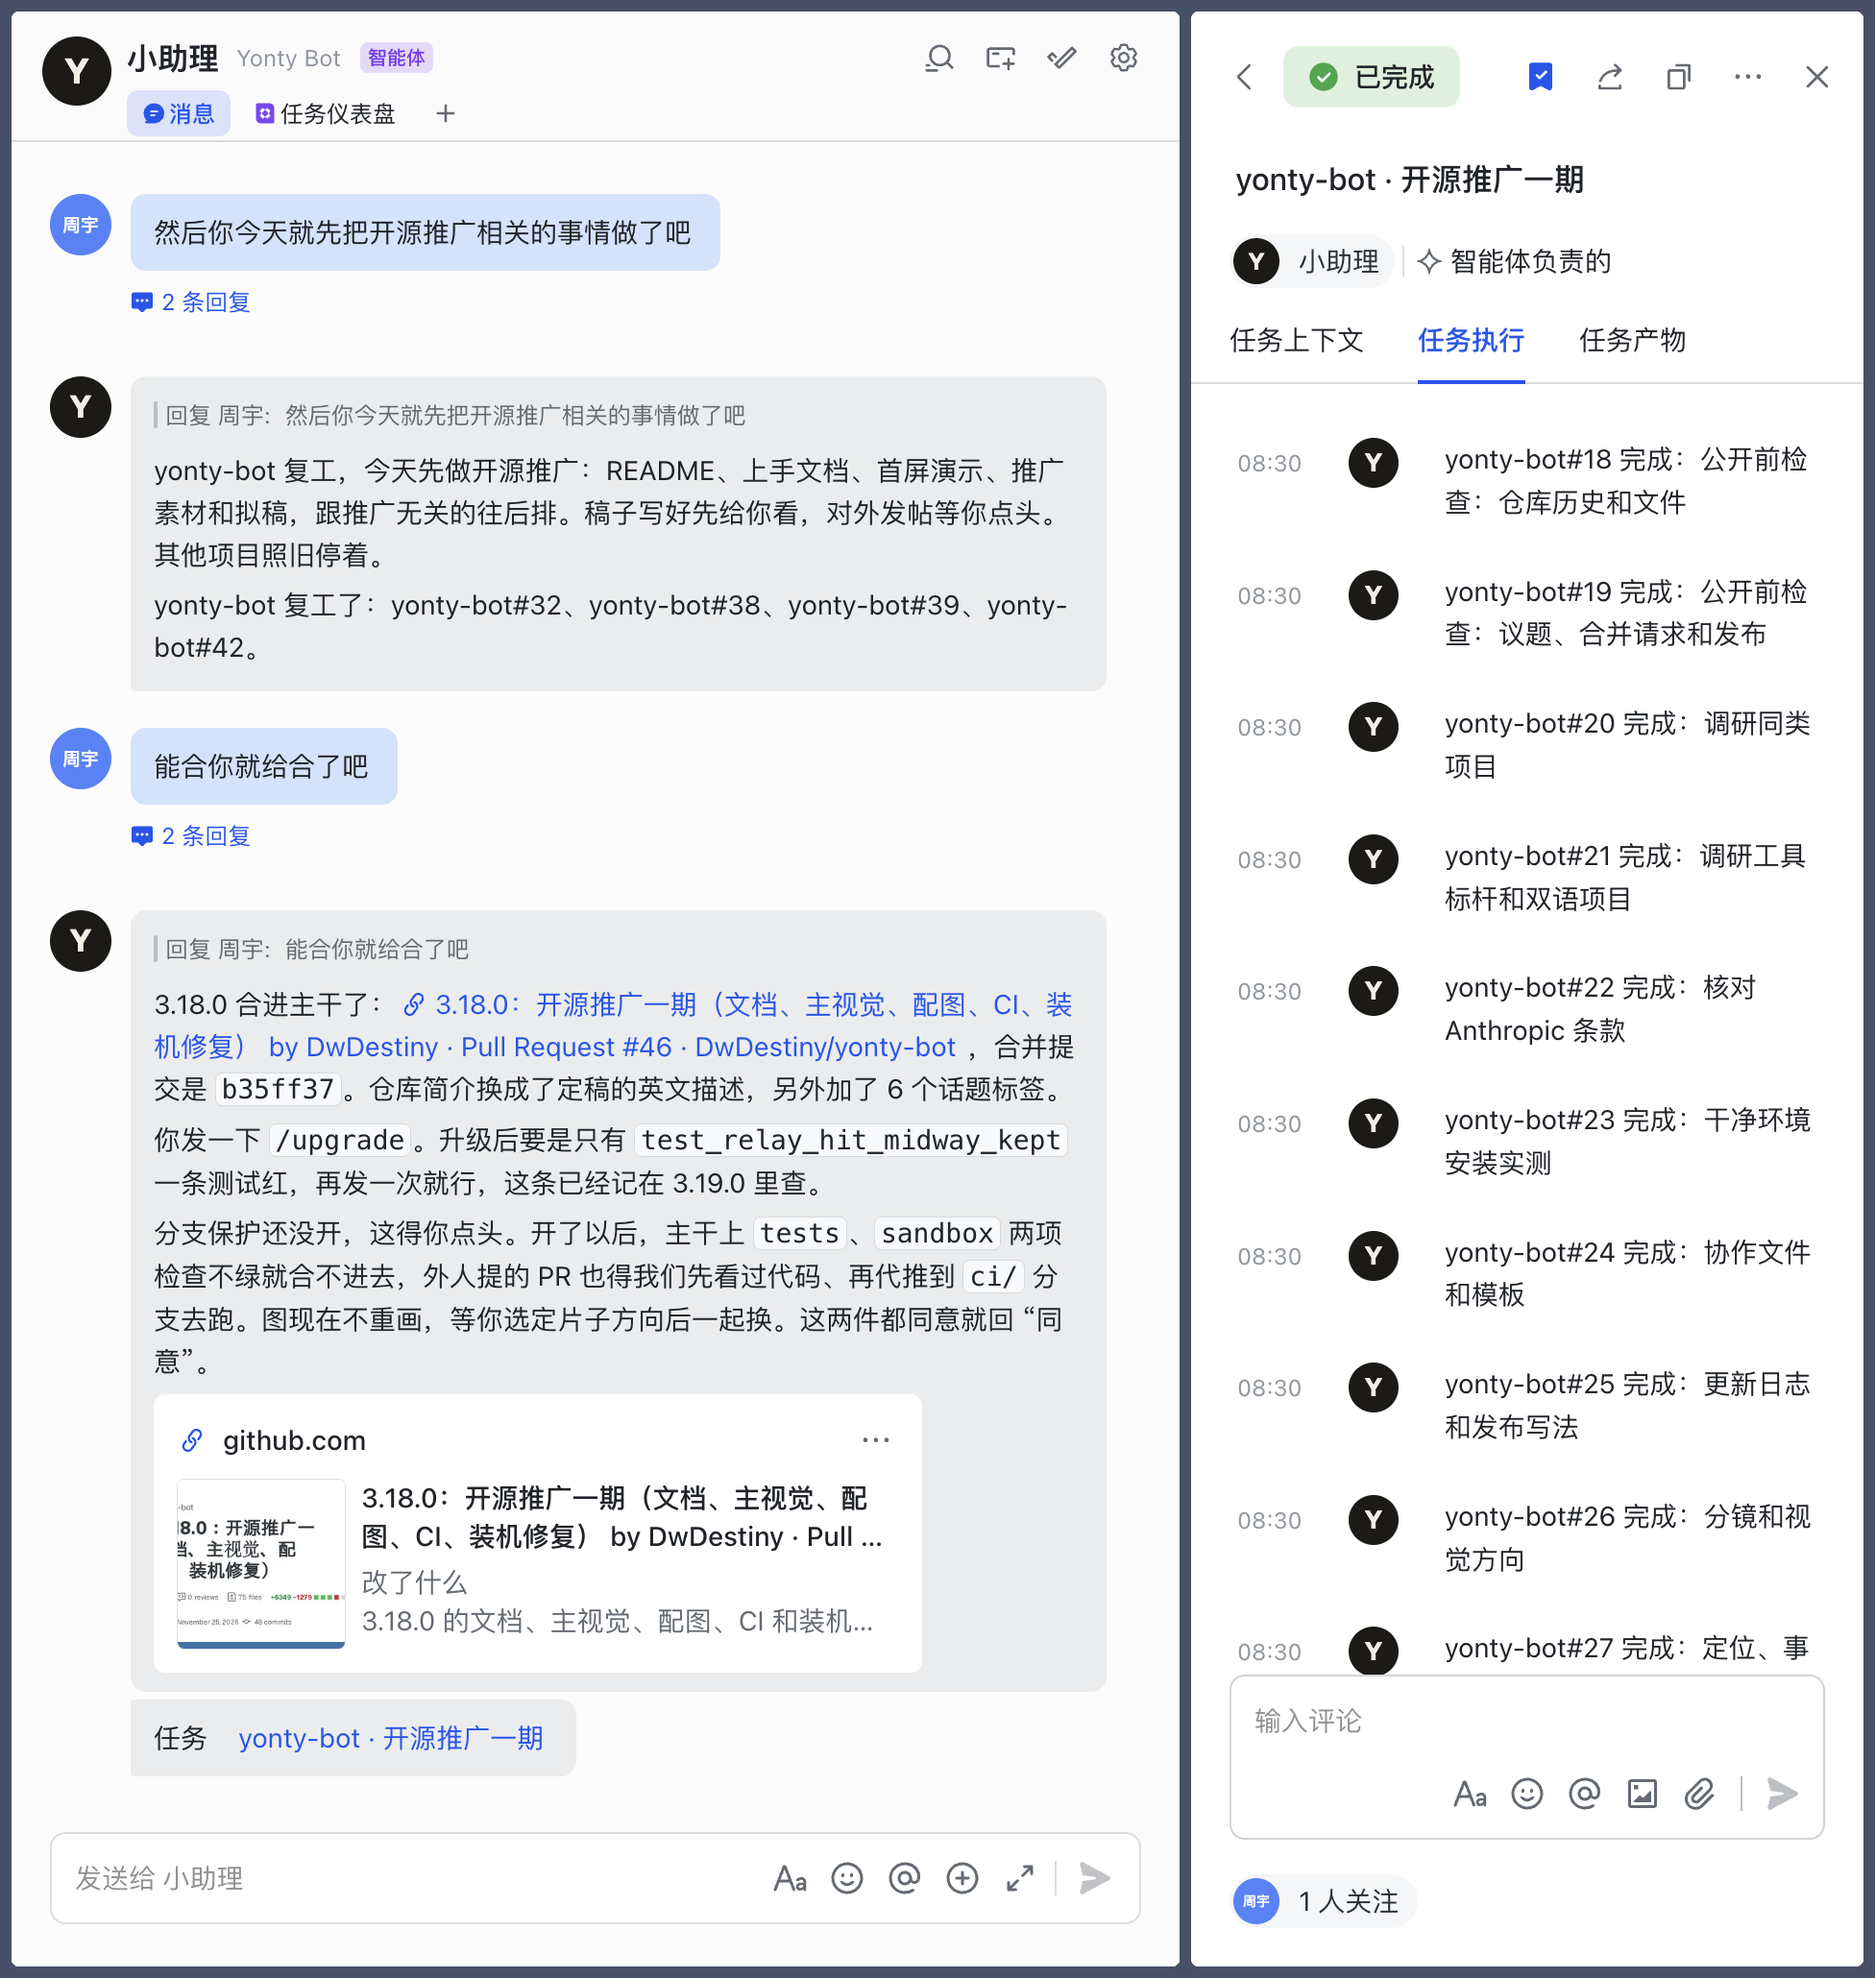
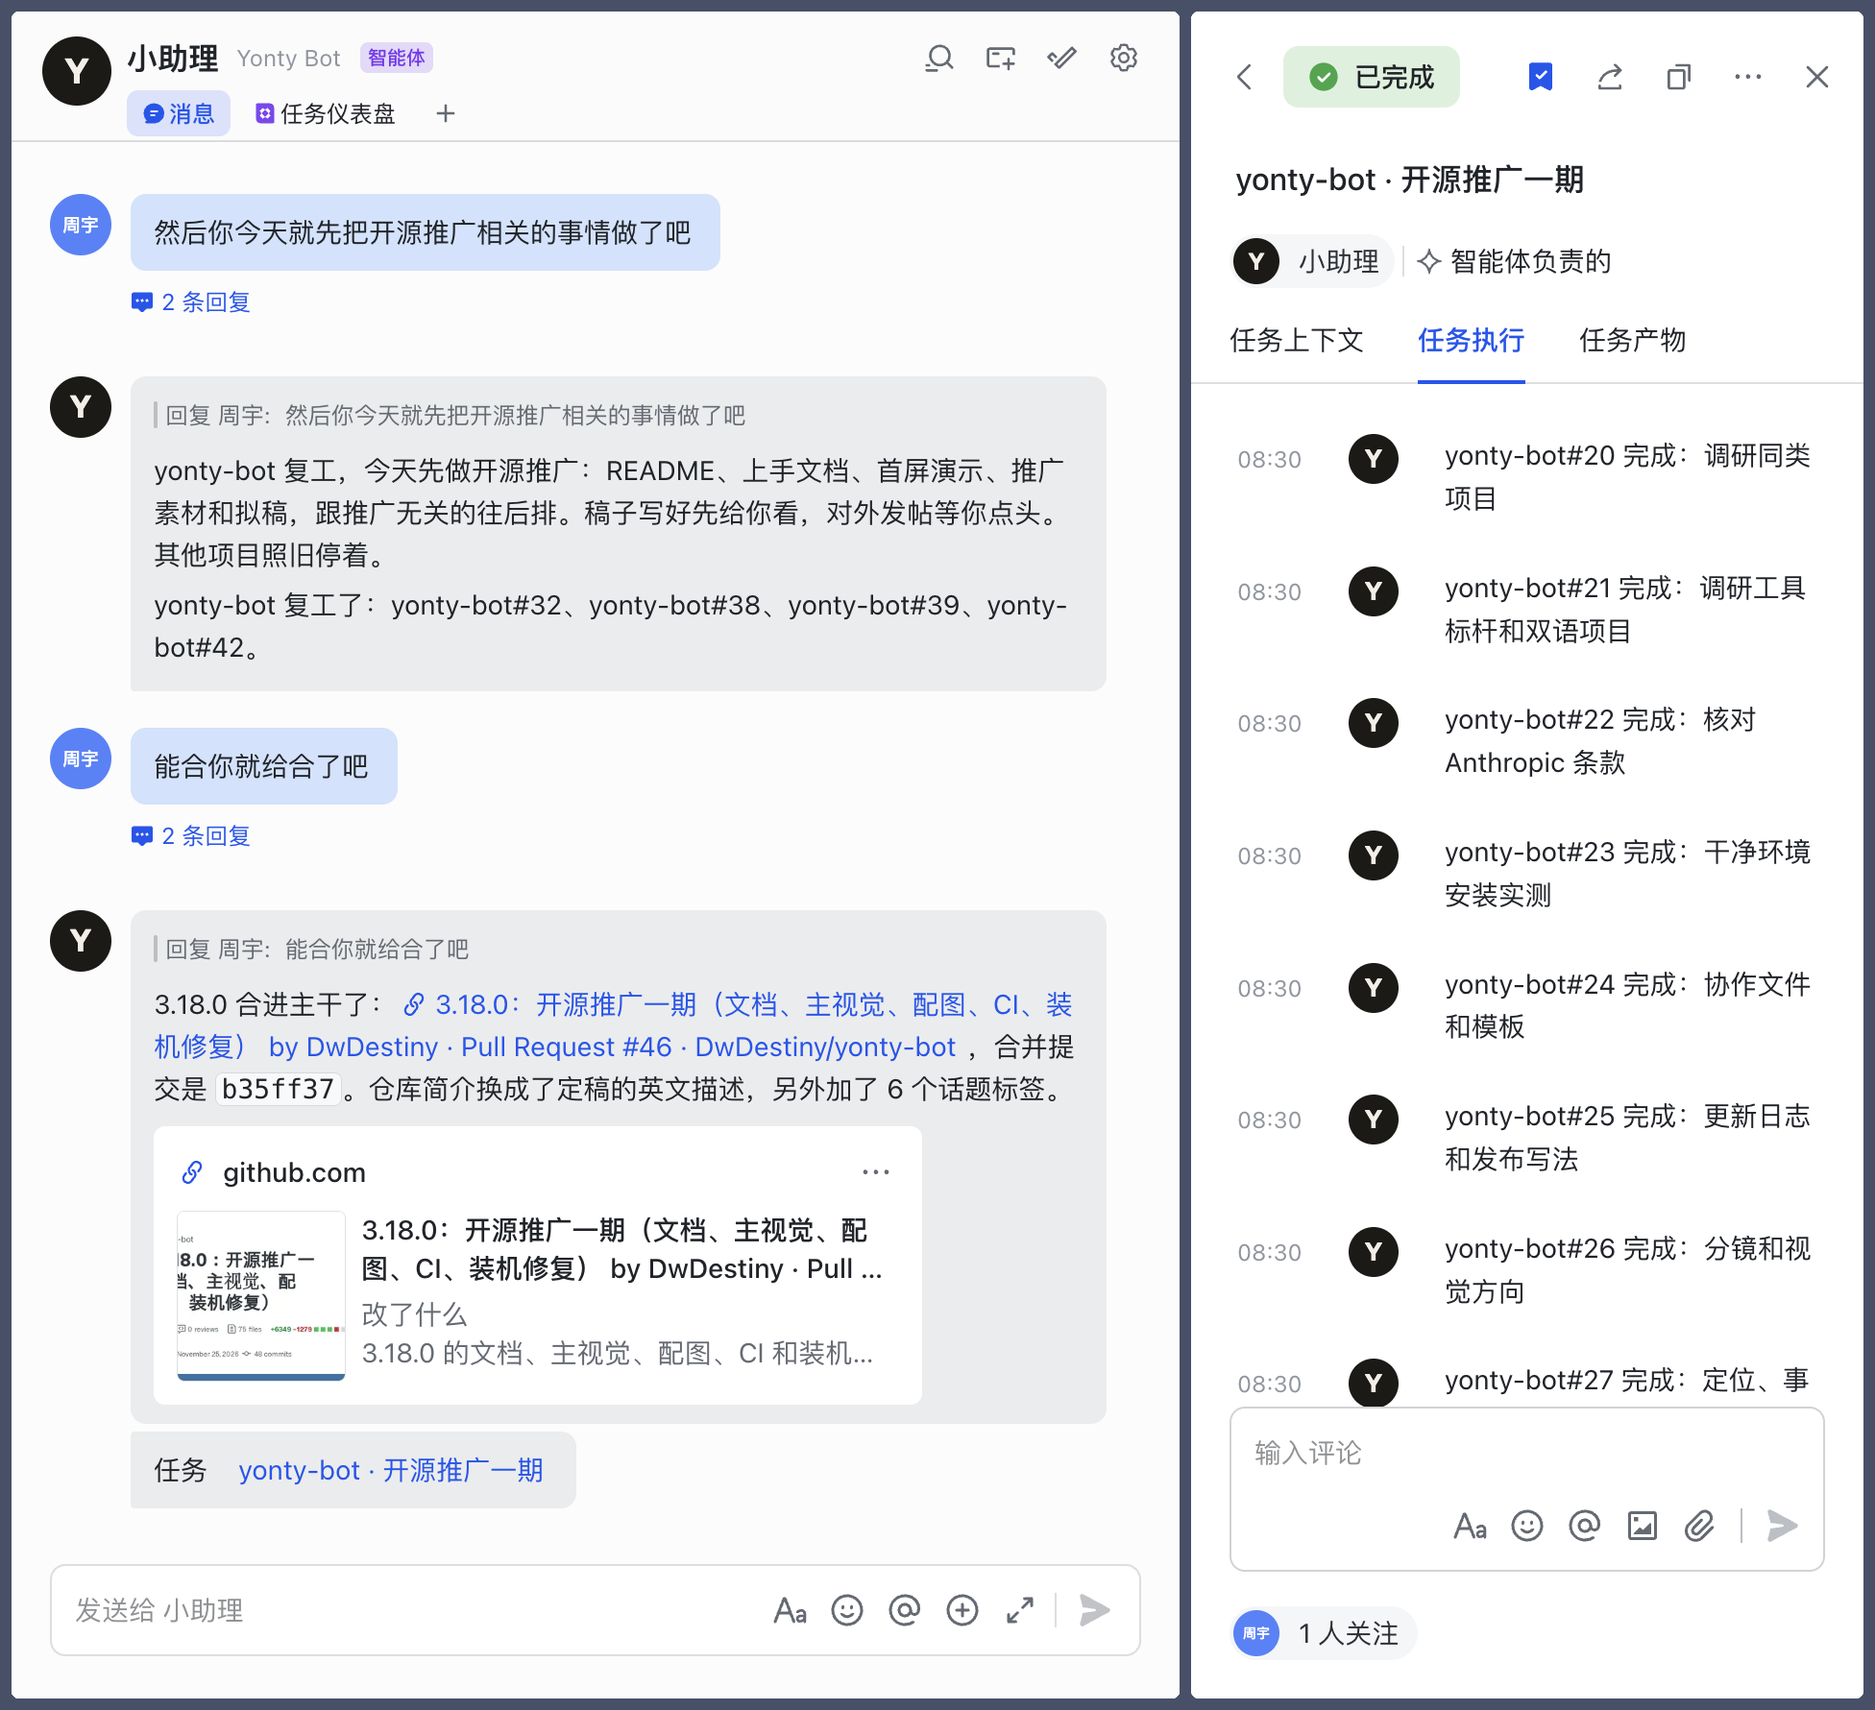
README：截图剪掉当时的待办，第 5 步改成回到派活的会话
合进主干那条回复的后两段是当时的待办（升级后哪条测试可能红、分支保护还没开），放在门面上会过时，也跟这一节讲的事无关，剪掉，只留第一段和合并请求卡片。右边任务列表剪掉同样高度的开头两条，两栏一样高。剪口选在整行空白处，剪之前核对过剪口两边的行逐像素相同。图注和替代文字写明剪过，docs/assets/README.md 补上这一步。

第 5 步原来写“回到群里汇报”，第 1 步已经改成私聊或群里都能派活。改成“在你派活的那个会话里汇报”，跟 docs/tasks.md 的回报规则一致。

diff --git a/README.en.md b/README.en.md
@@ -30,10 +30,10 @@ Feishu is the Chinese workplace chat from ByteDance (its international version i
 ## How a job runs
 
 <p align="center">
-  <img src="docs/assets/screenshots/feishu-task.png" alt="Real screenshot from Feishu on the web, an excerpt with a Chinese interface. Left: a direct message. The owner asks the bot to start on the open-source launch, and the bot replies that it has started. Later the owner says to merge when it is ready. The bot reports that 3.18.0 is merged into main, with a pull request card, and then posts the Feishu task link 'yonty-bot · 开源推广一期'. Right: that Feishu task, marked done and owned by the agent. Its execution log lists finished subtasks such as yonty-bot#18. Names and avatars are replaced, the watermark is removed, and unrelated messages in between are left out." width="100%">
+  <img src="docs/assets/screenshots/feishu-task.png" alt="Real screenshot from Feishu on the web, an excerpt with a Chinese interface. Left: a direct message. The owner asks the bot to start on the open-source launch, and the bot replies that it has started. Later the owner says to merge when it is ready. The bot reports that 3.18.0 is merged into main, with a pull request card, and then posts the Feishu task link 'yonty-bot · 开源推广一期'. Right: that Feishu task, marked done and owned by the agent. Its execution log lists the finished subtasks. Names and avatars are replaced and the watermark is removed. Unrelated messages in between, and the last two paragraphs of the merge reply, are left out." width="100%">
 </p>
 
-This is a real screenshot (an excerpt) from the author's own instance. The interface is in Chinese. On the left is a direct message: a one-line request, and the bot starts. Later you say to merge when it is ready, and it merges into main and posts a link to the Feishu task. On the right is that Feishu task: done, with one line for each finished subtask. Names and avatars are replaced, the watermark is removed, and unrelated messages in between are left out.
+This is a real screenshot (an excerpt) from the author's own instance. The interface is in Chinese. On the left is a direct message: a one-line request, and the bot starts. Later you say to merge when it is ready, and it merges into main and posts a link to the Feishu task. On the right is that Feishu task: done, with one line for each finished subtask. Names and avatars are replaced and the watermark is removed. Unrelated messages in between are left out, and the merge reply keeps only its first paragraph.
 
 The steps from start to finish:
 
@@ -41,7 +41,7 @@ The steps from start to finish:
 2. The project manager reads the code, decides what this version covers and assigns one lead.
 3. The lead works on its own branch in the background from start to finish: research, code, tests and a draft pull request.
 4. When the lead says it is done, the service re-runs the verify command and sends the task back in the background if it fails. Then a reviewer reads the diff, and fixes go back to the same lead.
-5. The re-run passes, so the result says PASS. The bot reports back in the group with a link to the draft pull request.
+5. The re-run passes, so the result says PASS. The bot reports back in the chat where you gave the job, with a link to the draft pull request.
 
 ## Four highlights
 

diff --git a/README.md b/README.md
@@ -28,10 +28,10 @@
 ## 一件活怎么走完
 
 <p align="center">
-  <img src="docs/assets/screenshots/feishu-task.png" alt="飞书网页版的真实截图，节选。左边是私聊：主人说“然后你今天就先把开源推广相关的事情做了吧”，机器人回话开工；后来主人说“能合你就给合了吧”，机器人回报 3.18.0 已合进主干，附合并请求卡片，再发来飞书任务链接“yonty-bot · 开源推广一期”。右边是这条飞书任务：已完成，由智能体负责，“任务执行”里逐条列着 yonty-bot#18 等子任务已完成。人名和头像换过，水印去掉了，中间无关的消息省掉了。" width="100%">
+  <img src="docs/assets/screenshots/feishu-task.png" alt="飞书网页版的真实截图，节选。左边是私聊：主人说“然后你今天就先把开源推广相关的事情做了吧”，机器人回话开工；后来主人说“能合你就给合了吧”，机器人回报 3.18.0 已合进主干，附合并请求卡片，再发来飞书任务链接“yonty-bot · 开源推广一期”。右边是这条飞书任务：已完成，由智能体负责，“任务执行”里逐条列着已完成的子任务。人名和头像换过，水印去掉了，中间无关的消息和合并那条回复的后两段省掉了。" width="100%">
 </p>
 
-上图是真实截图（节选），来自作者自己的实例。左边是私聊：一句话派活，它回话开工；后来你说能合就合，它合进主干，再发来飞书任务的链接。右边是这条飞书任务：已完成，子任务做完一条记一条。人名、头像换过，水印去掉了，中间无关的消息省掉了。
+上图是真实截图（节选），来自作者自己的实例。左边是私聊：一句话派活，它回话开工；后来你说能合就合，它合进主干，再发来飞书任务的链接。右边是这条飞书任务：已完成，子任务做完一条记一条。人名、头像换过，水印去掉了。中间无关的消息省掉了，合进主干那条回复只留了第一段。
 
 从头到尾的步骤：
 
@@ -39,7 +39,7 @@
 2. 项目经理读代码，定下这个版本做什么，派一个负责人。
 3. 负责人在后台的独立分支上从头做到尾：调研、改代码、跑测试，建草稿合并请求。
 4. 它说做完后，服务复跑验证命令，没过就在后台退回。过了再派一个评审只读看改动，要改的退回同一个负责人。
-5. 复跑通过，结论写 PASS。机器人回到群里汇报，附上草稿合并请求的链接。
+5. 复跑通过，结论写 PASS。机器人在你派活的那个会话里汇报，附上草稿合并请求的链接。
 
 ## 四个特点
 
